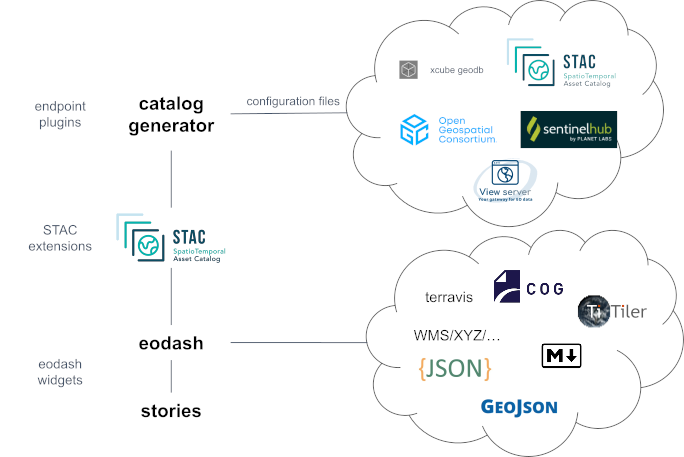
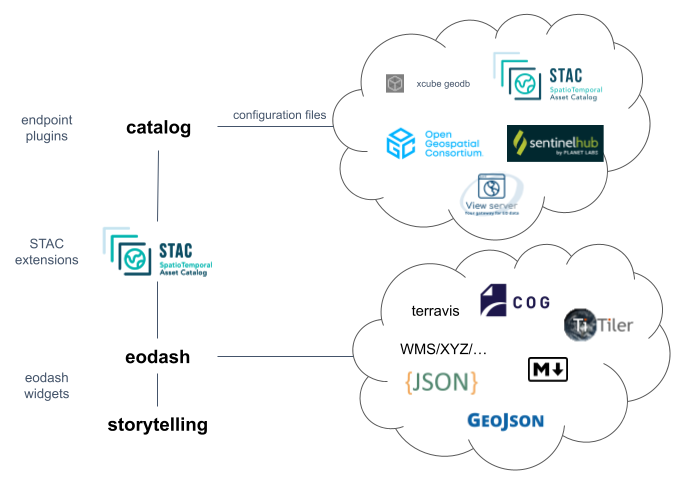
updating docs with additional content

diff --git a/welcome.md b/welcome.md
@@ -4,15 +4,32 @@ Great to see you are interested in learning more about the eodash ecosystem!
 
 Firstly a quick note: the components do not have a stable release and the documentation is also being worked on, so updates and changes are very much to be expected!
 
-With this documentation we want to cater two user groups:
-  - System administrators looking into how to setup or integrate the eodash ecosystem into their environments, providing an extended service to other users
-  - Members of a community and users of an extended service suite where the eodash ecosystem has been integrated to understand how to integrate their data and results
+## Goal
+With this ecosystem we want to provide an easily usable, configurable and extendable toolset to present results and achievements around the earth observation domain online and accessible.
+
+We want to establish this ecosystem by collaborating with the different EO communities and understanding their requirements, trying to set it up as a more open community project to foster communication.
+
+The core functionality of the toolset should cater to provide a baseline that can be used by each of these communities but still allowing to easily integrate their unique solutions.
+
+The documentation tries to cater two user groups:
+  - Service administrators looking into how to setup or integrate the eodash ecosystem into their environments, providing an extended service to other users
+  - Members of a community and users of an extended service suite where the eodash ecosystem has been integrated to provide information on how to integrate their data and results
 
 ## What is the eodash ecosystem?
 
-The eodash ecosystem is an aggregation of tools provided in a permissive license conceptualized around STAC that work well together and in a federated way to provide the basis to integrate Earth Observation data into an overarching service package.
+The eodash ecosystem is an aggregation of tools provided in a permissive license conceptualized around [SpatioTemporal Asset Catalogs (STAC)](https://stacspec.org) that work well together and in a federated way to provide the basis to integrate Earth Observation data into an overarching service package.
 The main tools are a web client dashboard library (eodash) as well as a catalog generator library that provide the basis for integration of many types of endpoints.
 
 ## Concept
 
 ![architecture concept figure](./assets/eodash_ecosystem.png)
+
+The figure above shows the main components of the eodash ecosystem, as well as how they interact with each other.
+
+The **eodash [catalog](https://github.com/eodash/eodash_catalog)** is a helper python package which supports a series of commonly used serverless EO data endpoints as well as service endpoints, such as [OGC](https://www.ogc.org/) services, [ViewServer](https://gitlab.eox.at/vs), STAC catalogs, and others.
+By defining a collection configuration file an end user can provide a wide range of visualization and analysis definitions to describe how the data should be visualized on the eodash web client. The supported resources are described [here](https://github.com/eurodatacube/eodash-catalog/wiki/Resource). The output of the catalog helper package is a static catalog (series of files), that can be hosted on any web server.
+
+The generated static catalog is the input used by an **[eodash](https://eodash.github.io/eodash/)** instance to populate the information shown. This includes descriptive text, assets, analysis functions and most importantly customizable EO data visualization through a series of configurable widgets. eodash provides a set of **core widgets** that can be configured to navigate and interact with the data. Third party widgets can be developed and integrated through the configuration by (for example) reacting to specific **STAC extensions** in the catalog.
+
+For wider audiences the [storytelling](https://eox-a.github.io/EOxElements/?path=/docs/elements-eox-storytelling--docs) component is envisioned. It provides an online editor (based on [Markdown](https://www.markdownguide.org/)) to create an interactive and guided experience. Results and datasets shown in eodash instances can be easily integrated. Field experts and communicators are able to create such content by utilizing the capabilities provided by eodash.
+

diff --git a/eodash.md b/eodash.md
@@ -1,3 +1,19 @@
-# eodash
+# eodash instance
 
-This section is still needs to be filled! Please come by soon again, it is being worked on! 
+If you have already a catalog endpoint set up (if not see [Catalog backend](./catalog)) you can create an eodash instance to point to it.
+
+We have created to example template repositories showcasing the two possible approaches of integrating eodash, this is either:
+*  as a [web component](https://developer.mozilla.org/en-US/docs/Web/API/Web_components) in the [eodash-pages-template](https://github.com/eodash/eodash-pages-template) 
+* or as an vite based application for supporting further development of custom widgets in the [eodash-instance-template](https://github.com/eodash/eodash-instance-template). 
+
+Both examples have their own application areas, so please feel free to explore both. As example here let's say you would potentially like to extend the core capabilities available, so using the eodash-instance-template could be a good candidate.
+
+Visit the [eodash-instance-template](https://github.com/eodash/eodash-instance-template) and use the "Use this template" button at the top right to create your own repository.
+
+The only change that in principle needs to be made is to point the instance to your catalog endpoint. The configuration file is under `/src/main.js`. There in the `stacEndpoint`setting add your endpoint and commit the changes to your repository. [This](https://github.com/eodash/eodash-instance-template/blob/main/src/main.js#L8) is the location in the example instance repository. If you followed the previous section for setting up your catalog your url should look something like this: `https://<organization>.github.io/<repository>/<catalog_name>/catalog.json`.
+
+Once this change is done make sure that github pages are activated for the repository and pointing to the gh-pages branch. For example the instance template is deployed the same way and can be reached through https://eodash.github.io/eodash-instance-template/
+
+For your project you should be able to find the url in the deployment section of your github repository and should look like: `https://<organization>.github.io/<repository>`
+
+The same approach can be used for the other template repository. The [eodash-pages-template](https://github.com/eodash/eodash-pages-template) uses [vitepress](https://vitepress.dev/) as framework in which the eodash web component variant is integrated. It also shows how to additionaly be able to create static pages, as well as integrate the [storytelling](./storytelling) concept all under one static deployment.

diff --git a/roadmap.md b/roadmap.md
@@ -1,0 +1,36 @@
+# Roadmap
+
+This project tries to bring together experience and capabilities gathered working in Earth Observation related field.
+This will be an iterative process which will also be influenced by potential community interactions.
+
+We are grateful for inputs and thoughts in form of issues in respective components.
+If you are unsure where to create an issue feel free to use the [eodash issue board](https://github.com/eodash/eodash/issues).
+
+We want to note some roadmap steps that are potentially on the horizon to help stimulate discussion.
+
+* eodash
+    - extend support for generic STAC catalogs
+    - create eodash STAC catalog extension
+    - increase number of example (template) repositories for other frameworks
+    - implement support of flat styles for serverless datasets (COG and GeoJSON)
+    - look into supporting cloud optimized vector formats
+    - implement chart rendering of data based on [VEGA chart definition language](https://vega.github.io/vega/)
+    - describe how to implement a custom widget (as part of eodash instance template)
+* catalog
+    - plugin system
+    - improvement on performance for very large collections
+    - potential switch to another base library
+* storytelling
+    - allow importing map state based on passed STAC item (and state modifiers)
+    - allow importing of chart state based on passed STAC item (and state modifiers)
+    - integrate VEGA chart definition rendering component
+    - improve documentation
+* documentation
+    - extend description of usage and examples
+    - add links to open example instances
+* others
+    - initialize process of becoming a OSGeo Community Project
+    - create library or helper UI to more easily create flat styles (extended by eox-forms)
+    - implement (or wrap) VEGA chart definition rendering component
+
+

diff --git a/first_steps.md b/first_steps.md
@@ -1,7 +1,12 @@
 # First steps
 
-The main idea of the eodash ecosystem is to allow any number of setups, such as only using individual components might be used, integration of specific endpoints or dynamically configured clients based on some specialized user workspaces.
+The main idea of the eodash ecosystem is to allow any number of setups, such as only using individual components, integration of specific endpoints or dynamically configured clients based on some specialized user workspaces.
 
-Here we want to show some examples setups that should hopefully get you started with just some clicks.
+We still want to make sure that setting up the ecosystem can be easily managed by anyone. We have create some template repositories to help you achieve this.
+These template repositories showcase integration into other frameworks giving you an idea of how you could introduce them into your own architecture.
 
-More content coming soon!
+We want to present basic use cases in a way that they can be used by themselves as well as to introduce you to how aspects of the ecosystem could be integrated into a service you manage.
+
+As described in eodash ecosystem [concept](./welcome#concept) we need only two things for an eodash instance, a supported (STAC) catalog and a configured and deployed eodash instance.
+
+We can achieve this by utilizing github pages capabilities. This is how the template repositories are set up, have a look at the [Catalog backend](./catalog) section to learn how to setup your own catalog deployment. Afterwards look into the [eodash instance](./eodash) section to learn how to deploy and configure your own instance.

diff --git a/catalog.md b/catalog.md
@@ -1,3 +1,11 @@
 # Catalog backend
 
-This section is still needs to be filled! Please come by soon again, it is being worked on! 
+Let's start with the [catalog-template](https://github.com/eodash/catalog-template), navigate there and click on the "Use this template" button on the top right to create a new repository instance controlled by you. Once your instance is created follow the [How-to](https://github.com/eodash/catalog-template?tab=readme-ov-file#how-to) to enable github pages to automatically generate and host your catalog.
+
+A very basic catalog example with one collection is already setup, so you can make sure your instance is correctly configured by going to `https://<organization>.github.io/<repository>/<catalog_name>/catalog.json`
+
+To further understand configuration options for data collections have a look at the [data configuration](./data) section. 
+
+The generation of the catalog which the catalog-template utilizes is based on the [eodash_catalog](https://github.com/eodash/eodash_catalog) python package. For further information please have a look at the repository and documentation.
+
+Please have a look at how to setup an eodash instance in the next section [eodash instance](./eodash).

diff --git a/technology.md b/technology.md
@@ -1,0 +1,9 @@
+# Technology
+
+eodash is intended as frame and component communicator for core and third party widgets.
+
+The core widgets are based around [EOxElements](https://eox-a.github.io/EOxElements/) and extended by how they interact with each other. 
+
+The state management within eodash is based around [SpatioTemporal Asset Catalogs (STAC)](https://stacspec.org), each component can register to a central store, supported by [pinia](https://pinia.vuejs.org/).
+
+The eodash framework is based on [vue.js](https://vuejs.org/) 

diff --git a/data.md b/data.md
@@ -1,3 +1,3 @@
-# Data
+# Data configuration
 
 This section is still needs to be filled! Please come by soon again, it is being worked on! 

diff --git a/storytelling.md b/storytelling.md
@@ -1,3 +1,3 @@
-# Stories
+# Storytelling
 
 This section is still needs to be filled! Please come by soon again, it is being worked on! 
